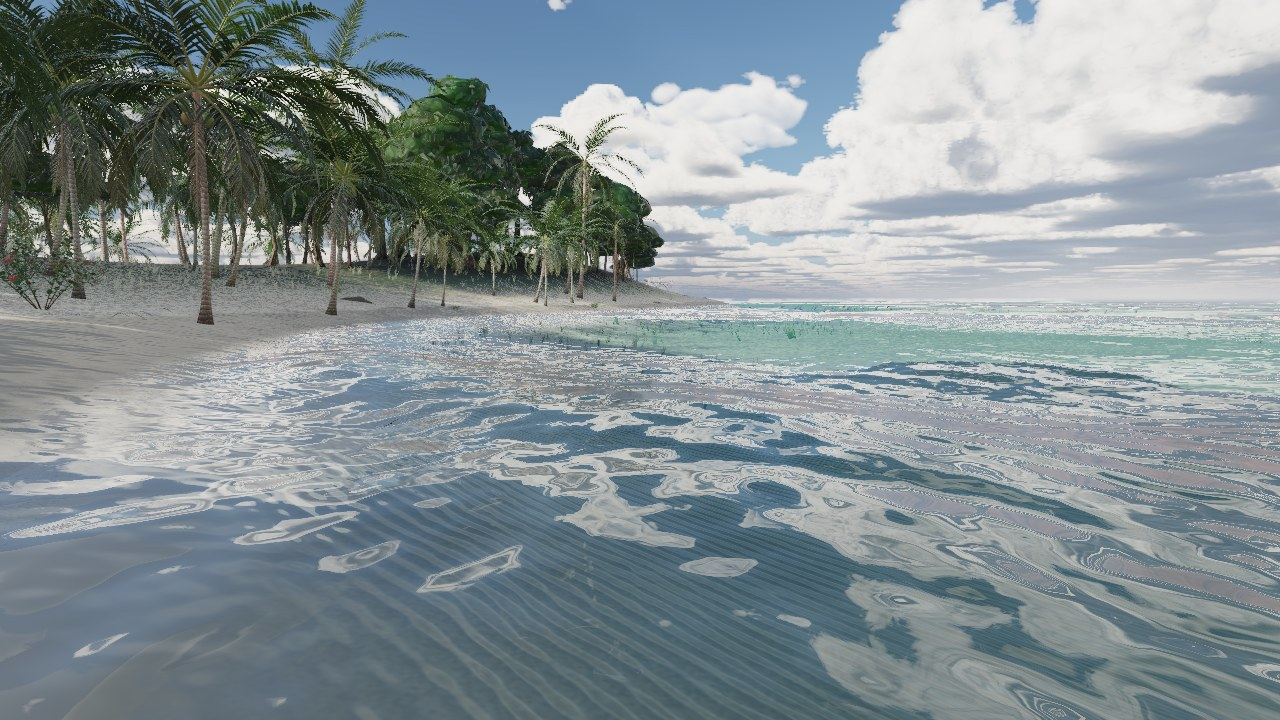
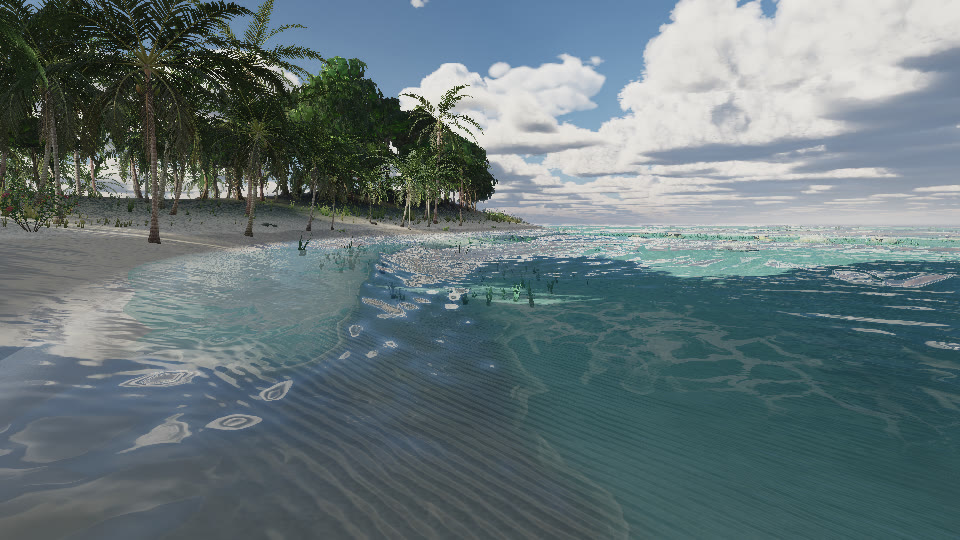
docs: tip showcase media — before/after, storm, TOD, underwater
Mirror Origin showcase stills onto GitHub. README and media only;
index.html unchanged so Pages keeps the live tip app.

diff --git a/WINDWARD_NOTES.md b/WINDWARD_NOTES.md
@@ -66,7 +66,7 @@ Compact working notes. Update, do not grow.
 ## Grass, bark, sea floor
 
 - `cylinder()` (tree-fern, understory and shrub stems) is WOOD with a seam and uv, like `addLimb`. As SOLID these stems were flat brown from close to.
-- `media/*.jpg` are README screenshots (1280x720, software renderer, `shot=4&wx=clouds`, `shot=1`, `shot=6&wx=clear&warm=12&dpitch=-0.3`). `og:image` in the page points at `media/lagoon.jpg` on Pages; the page itself still loads nothing.
+- `media/*.jpg` are README screenshots only (the page itself loads nothing). Early visitor stills (1280×720) sit in `media/before/`. Tip `998a15d` stills (960×540 High, `?read&rf=8`) are the hero/place files plus `media/views/` and `media/nine-views.jpg` (storm, TOD, weather, underwater included). `og:image` points at `media/lagoon.jpg` on Pages.
 - Grass tuft: 9 blades of two segments (`grassGeom`). Sizes: every tuft cut by its own factor and two smaller ones sown at its foot from `seeded(40507)`, after the main `rnd()` loop, so nothing else replants. `vsGrass`: bend is a share of the blade's own height (tip furthest, dips), gusts roll downwind as a wave, blades within 1.3 m of the eye lean away and lie down (eye under 3.2 m above that ground; seaweed too).
 - Trunks: palm 18 sides / 48 rings, forest trunk 16 sides, limbs 10; bark shaders add cross cracks, scar lips, deeper furrows.
 - Sea floor: `caustic(p, foot)` is a colour: two layers of the interference field (the second rotated), domain-warped by noise, combined with `min` into a net of threads, three taps with red and blue displaced, projected up the refracted sun (`sunUnder`, never under 41 deg). Cells are 0.5 m at every depth (sized by depth, the net drew contour bands on slopes). It is normalised so its mean equals the flat light it replaced, and fades to that mean where a pixel covers more than a cell (`foot`), so shallows seen from the shore keep their brightness. The function before it was saturated over 90% of the bed and showed no net. With the eye under water the net is raised to the power 1.6 and renormalised (x0.71), since nothing smears it there; at the old contrast it barely showed against the bright sand. With the eye under water (`F.under`) the bed's sun term and absorption path use the refracted sun and the surface's Fresnel loss.

diff --git a/README.md b/README.md
@@ -43,7 +43,25 @@ Step into the water to swim; hold `Q` to dive. `6` puts you beside a coral head.
 
 | | |
 |---|---|
-| ![Palm Beach](media/beach.jpg) | ![Coral Garden, under the surface](media/coral.jpg) |
+| ![Palm Beach at golden hour](media/beach.jpg) | ![Coral Garden, under the surface](media/coral.jpg) |
+
+## Screenshots
+
+Real frames from the running app (no AI art). Hero and place stills below are tip `998a15d`. Early visitor stills are kept under `media/before/` for comparison.
+
+![Nine places and skies from tip](media/nine-views.jpg)
+
+| Storm | Night | Sunset |
+|---|---|---|
+| ![Thunderstorm on the beach](media/storm.jpg) | ![Moonlit island](media/night.jpg) | ![Offshore at sunset](media/sunset.jpg) |
+
+| Early still | Tip `998a15d` |
+|---|---|
+| ![Early Palm Beach](media/before/beach.jpg) | ![Tip Palm Beach](media/beach.jpg) |
+| ![Early lagoon](media/before/lagoon.jpg) | ![Tip lagoon](media/lagoon.jpg) |
+| ![Early coral garden](media/before/coral.jpg) | ![Tip coral garden](media/coral.jpg) |
+
+Individual tip views also live in `media/views/` (palm beach, cliff, aerial, lagoon, sunset, coral, forest shafts, thunderstorm, moonlit).
 
 ## What is in the page
 
@@ -88,7 +106,7 @@ Kilobytes are 1024 bytes. `node source/build.mjs` prints current figures; roughl
 | gzipped | ~130 KB |
 | brotli | ~110 KB |
 
-The page fetches nothing after load: no images, models, audio, fonts, or external scripts.
+The page fetches nothing after load: no images, models, audio, fonts, or external scripts. README images under `media/` are for GitHub only.
 
 ## Performance
 
